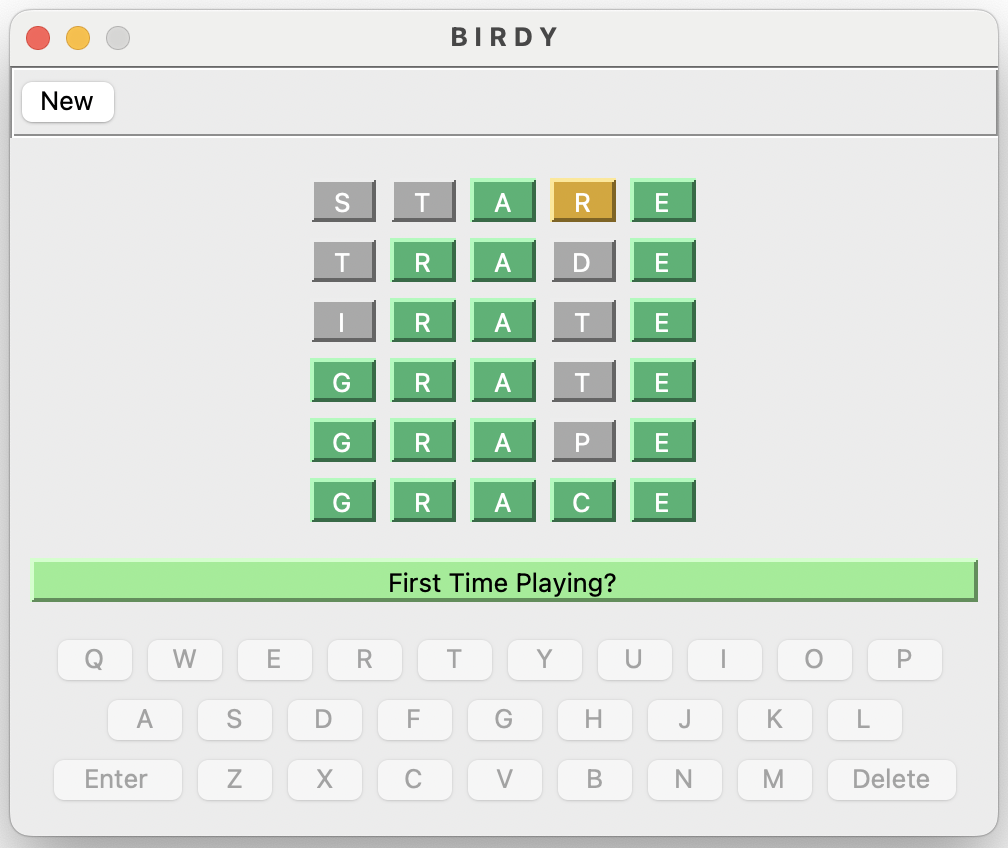
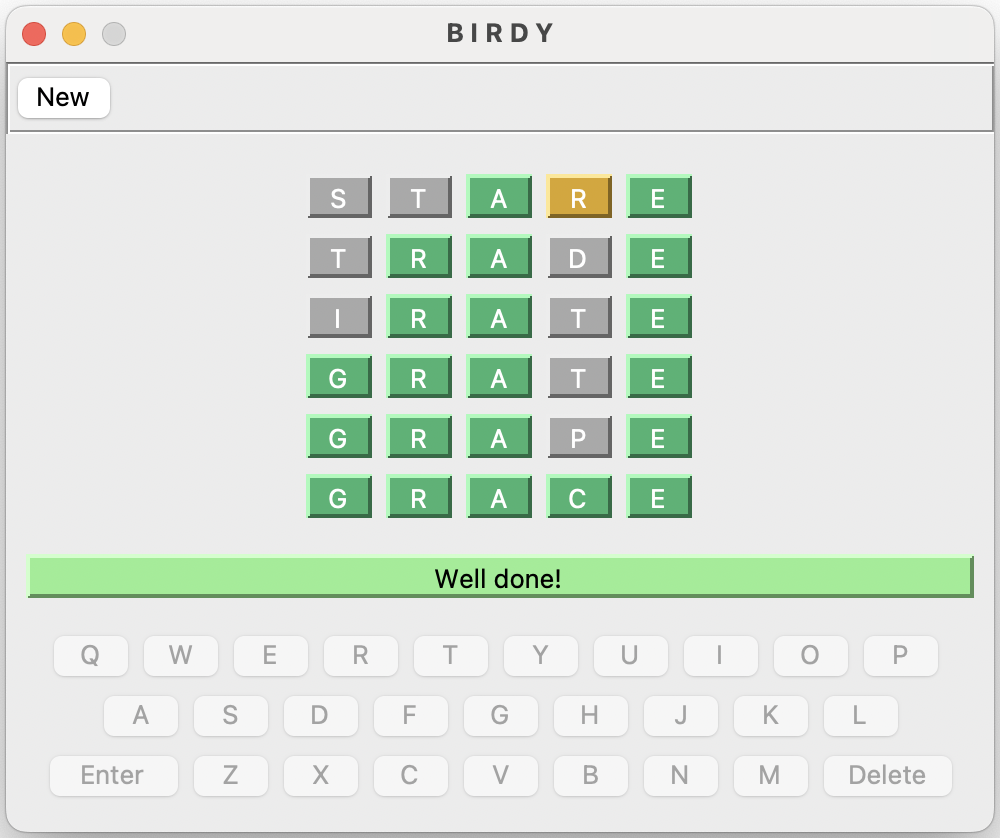
Update win words

diff --git a/Birdy/src/resources/text/birdy_text.py b/Birdy/src/resources/text/birdy_text.py
@@ -12,7 +12,7 @@ __delete_button_text = "Delete"
 
 __enter_button_text = "Enter"
 
-__game_won_text = ["Ace! Ventura", "Mystic Meg Levels", "Inconceivable! ", "Superman Cheats", "Great... Scott", "First Time Playing?"]
+__game_won_text = ["Ace!", "Amazing!", "Super! ", "Great!", "Impressive!", "Well done!"]
 
 # Text Birdy strings
 
